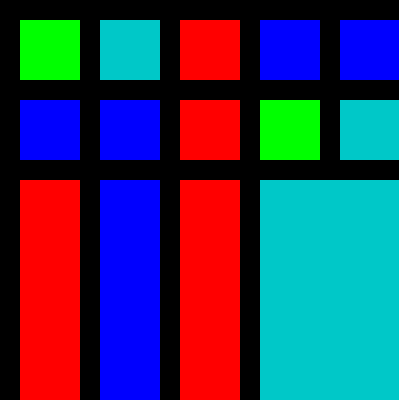
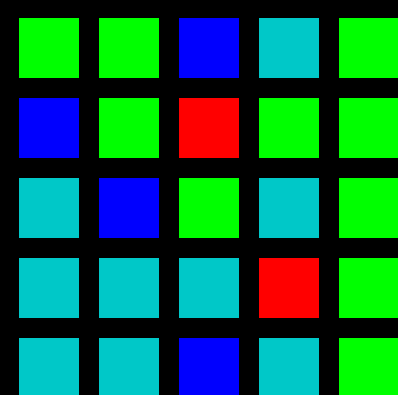
Animate a bit quiker.

diff --git a/js/art/latest.js b/js/art/latest.js
@@ -77,7 +77,7 @@ var pulse = 0;
 
 function draw() {
   pulse++;
-  if(pulse % 50 == 0) {
+  if(pulse % 35 == 0) {
     setup_grid();
   }
   draw_grid();
